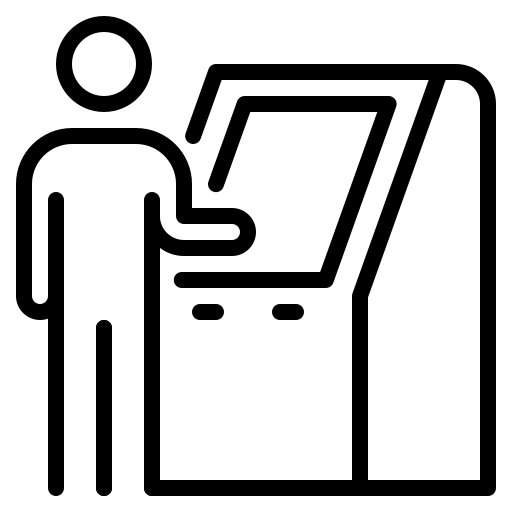
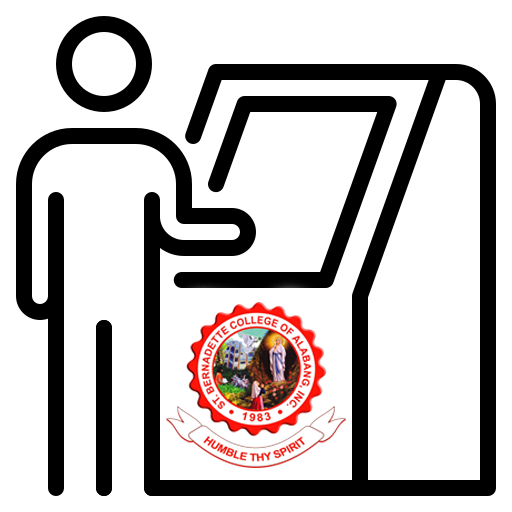
Home page created

Changed region(s): [[0.3125, 0.5938, 0.6875, 0.9375], [0.5312, 0.5312, 0.5938, 0.5625]]

diff --git a/client/components/Home.tsx b/client/components/Home.tsx
@@ -1,0 +1,104 @@
+/* eslint-disable @next/next/no-img-element */
+import { Email, Phone, Language, LocationOn } from '@mui/icons-material';
+import { Button, Container, Stack, Typography } from '@mui/material';
+import React from 'react';
+
+export default function HomePage() {
+    return <>
+        <div id='home-background'>
+            <Container style={{ maxWidth: "1300px" }}>
+                <Stack justifyContent="center" spacing={4} mt={4}>
+                    <Typography
+                        fontWeight="bold"
+                        align='center'
+                        variant='h2'> WELCOME TO </Typography>
+                    <Typography
+                        mt={4}
+                        align='center'
+                        variant='h4'> ST. BERNADETTE COLLEGE OF ALABANG </Typography>
+                    <Stack
+                        direction="row"
+                        alignItems="center"
+                        justifyContent="center"
+                        spacing={4}
+                        id="hero">
+                        <div>
+                            <img
+                                id='atm-machine'
+                                src="/assets/atm-machine.png"
+                                alt="atm-machine" />
+                        </div>
+
+                        <div id="right-section">
+                            <Stack alignItems="flex-start" justifyContent="stretch" p={3} spacing={4}>
+                                <Typography
+                                    align='center'
+                                    variant='h4'> SECURITY SUPPORT KIOSK SYSTEM </Typography>
+                                <Stack
+                                    width="100%"
+                                    direction="row" spacing={4}>
+                                    <img
+                                        id='rfid-chip'
+                                        src="/assets/rfid-chip.png"
+                                        alt="rfid-chip" />
+                                    <Stack
+                                        width="100%"
+                                        spacing={4}
+                                        justifyContent="stretch">
+                                        <Button
+                                            fullWidth
+                                            variant='contained'
+                                            style={{
+                                                backgroundColor: "#d26146",
+                                                padding: "1rem",
+                                                borderRadius: ".5rem"
+                                            }}> Student </Button>
+                                        <Button
+                                            fullWidth
+                                            variant='contained'
+                                            style={{
+                                                backgroundColor: "#d26146",
+                                                padding: "1rem",
+                                                borderRadius: ".5rem"
+                                            }}> Staff </Button>
+                                    </Stack>
+                                </Stack>
+                            </Stack>
+                        </div>
+                    </Stack>
+                </Stack>
+            </Container>
+
+            <Stack
+                mt={7}
+                direction="row"
+                justifyContent="center"
+                spacing={8}>
+                <Stack direction="row" justifyContent="center" alignContent="center" spacing={1}>
+                    <Phone />
+                    <Typography variant='h5'>
+                        288422139
+                    </Typography>
+                </Stack>
+                <Stack direction="row" justifyContent="center" alignContent="center" spacing={1}>
+                    <Email />
+                    <Typography variant='h5'>
+                        admin@sbca.edu.ph
+                    </Typography>
+                </Stack>
+                <Stack direction="row" justifyContent="center" alignContent="center" spacing={1}>
+                    <Language />
+                    <Typography variant='h5'>
+                        www.sbca.edu.ph
+                    </Typography>
+                </Stack>
+                <Stack direction="row" justifyContent="center" alignContent="center" spacing={1}>
+                    <LocationOn />
+                    <Typography variant='h5'>
+                        Km. 23. 6 East Service Road, Muntinlupa City
+                    </Typography>
+                </Stack>
+            </Stack>
+        </div>
+    </>;
+}

diff --git a/client/pages/index.tsx b/client/pages/index.tsx
@@ -1,40 +1,11 @@
-import { Button, Container, Stack } from '@mui/material';
+import HomePage from 'components/Home';
 import Head from 'next/head';
-import Link from 'next/link';
 
 export default function Home() {
   return <>
 
     <Head> <title> Security Support System Using RFID </title> </Head>
 
-    <Container>
-      <Stack spacing={2}>
-        <Link passHref href={'/student/new'}>
-          <Button variant='contained'> Add new student </Button>
-        </Link>
-        <Link passHref href={'/student/time-in'}>
-          <Button variant='contained'> Student Time-in </Button>
-        </Link>
-        <Link passHref href={'/student/time-out'}>
-          <Button variant='contained'> Student Time-out </Button>
-        </Link>
-        <Link passHref href={'/staff/new'}>
-          <Button variant='contained'> Add new staff </Button>
-        </Link>
-        <Link passHref href={'/staff/time-in'}>
-          <Button variant='contained'> Staff Time-in </Button>
-        </Link>
-        <Link passHref href={'/staff/time-out'}>
-          <Button variant='contained'> Staff Time-out </Button>
-        </Link>
-        <Link passHref href={'/time-in'}>
-          <Button variant='outlined'> Time-in </Button>
-        </Link>
-        <Link passHref href={'/time-out'}>
-          <Button variant='outlined'> Time-out </Button>
-        </Link>
-      </Stack>
-
-    </Container>
+    <HomePage />
   </>;
 }

diff --git a/client/styles/globals.css b/client/styles/globals.css
@@ -1,26 +1,31 @@
-html,
 body {
-  padding: 0;
-  margin: 0;
-  font-family: -apple-system, BlinkMacSystemFont, Segoe UI, Roboto, Oxygen,
-    Ubuntu, Cantarell, Fira Sans, Droid Sans, Helvetica Neue, sans-serif;
+  background-image: url(http://localhost:3000/assets/building.jpg);
+  background-attachment: fixed;
+  background-size: cover;
+  background-repeat: no-repeat;
 }
 
-a {
-  color: inherit;
-  text-decoration: none;
+#hero * {
+  color: white;
 }
 
-* {
-  box-sizing: border-box;
+#hero {
+  padding: 2rem;
+  background-color: hsla(0, 0%, 100%, .4);
+  border-radius: 2rem;
+  height: auto;
 }
 
-@media (prefers-color-scheme: dark) {
-  html {
-    color-scheme: dark;
-  }
-  body {
-    color: white;
-    background: black;
-  }
+#atm-machine {
+  height: 50vh;
+}
+
+#right-section {
+  padding: 1rem;
+  border-radius: 1rem;
+  background-color: rgba(67, 38, 18, 0.5);
+}
+
+#rfid-chip {
+  height: 20vh;
 }

diff --git a/client/pages/_app.tsx b/client/pages/_app.tsx
@@ -1,12 +1,24 @@
-// import '../styles/globals.css'
+import '../styles/globals.css';
 import { NotificationProvider } from 'hooks/useNotification';
 import type { AppProps } from 'next/app';
+import { ThemeProvider, createTheme } from '@mui/material/styles';
+import CssBaseline from '@mui/material/CssBaseline';
+
+const darkTheme = createTheme({
+  palette: {
+    mode: 'dark',
+  },
+});
 
 function MyApp({ Component, pageProps }: AppProps) {
   return (
-    <NotificationProvider>
-      <Component {...pageProps} />
-    </NotificationProvider>
+    <ThemeProvider theme={darkTheme}>
+      <CssBaseline />
+      <NotificationProvider>
+        <Component {...pageProps} />
+      </NotificationProvider>
+    </ThemeProvider>
+
   );
 }
 
